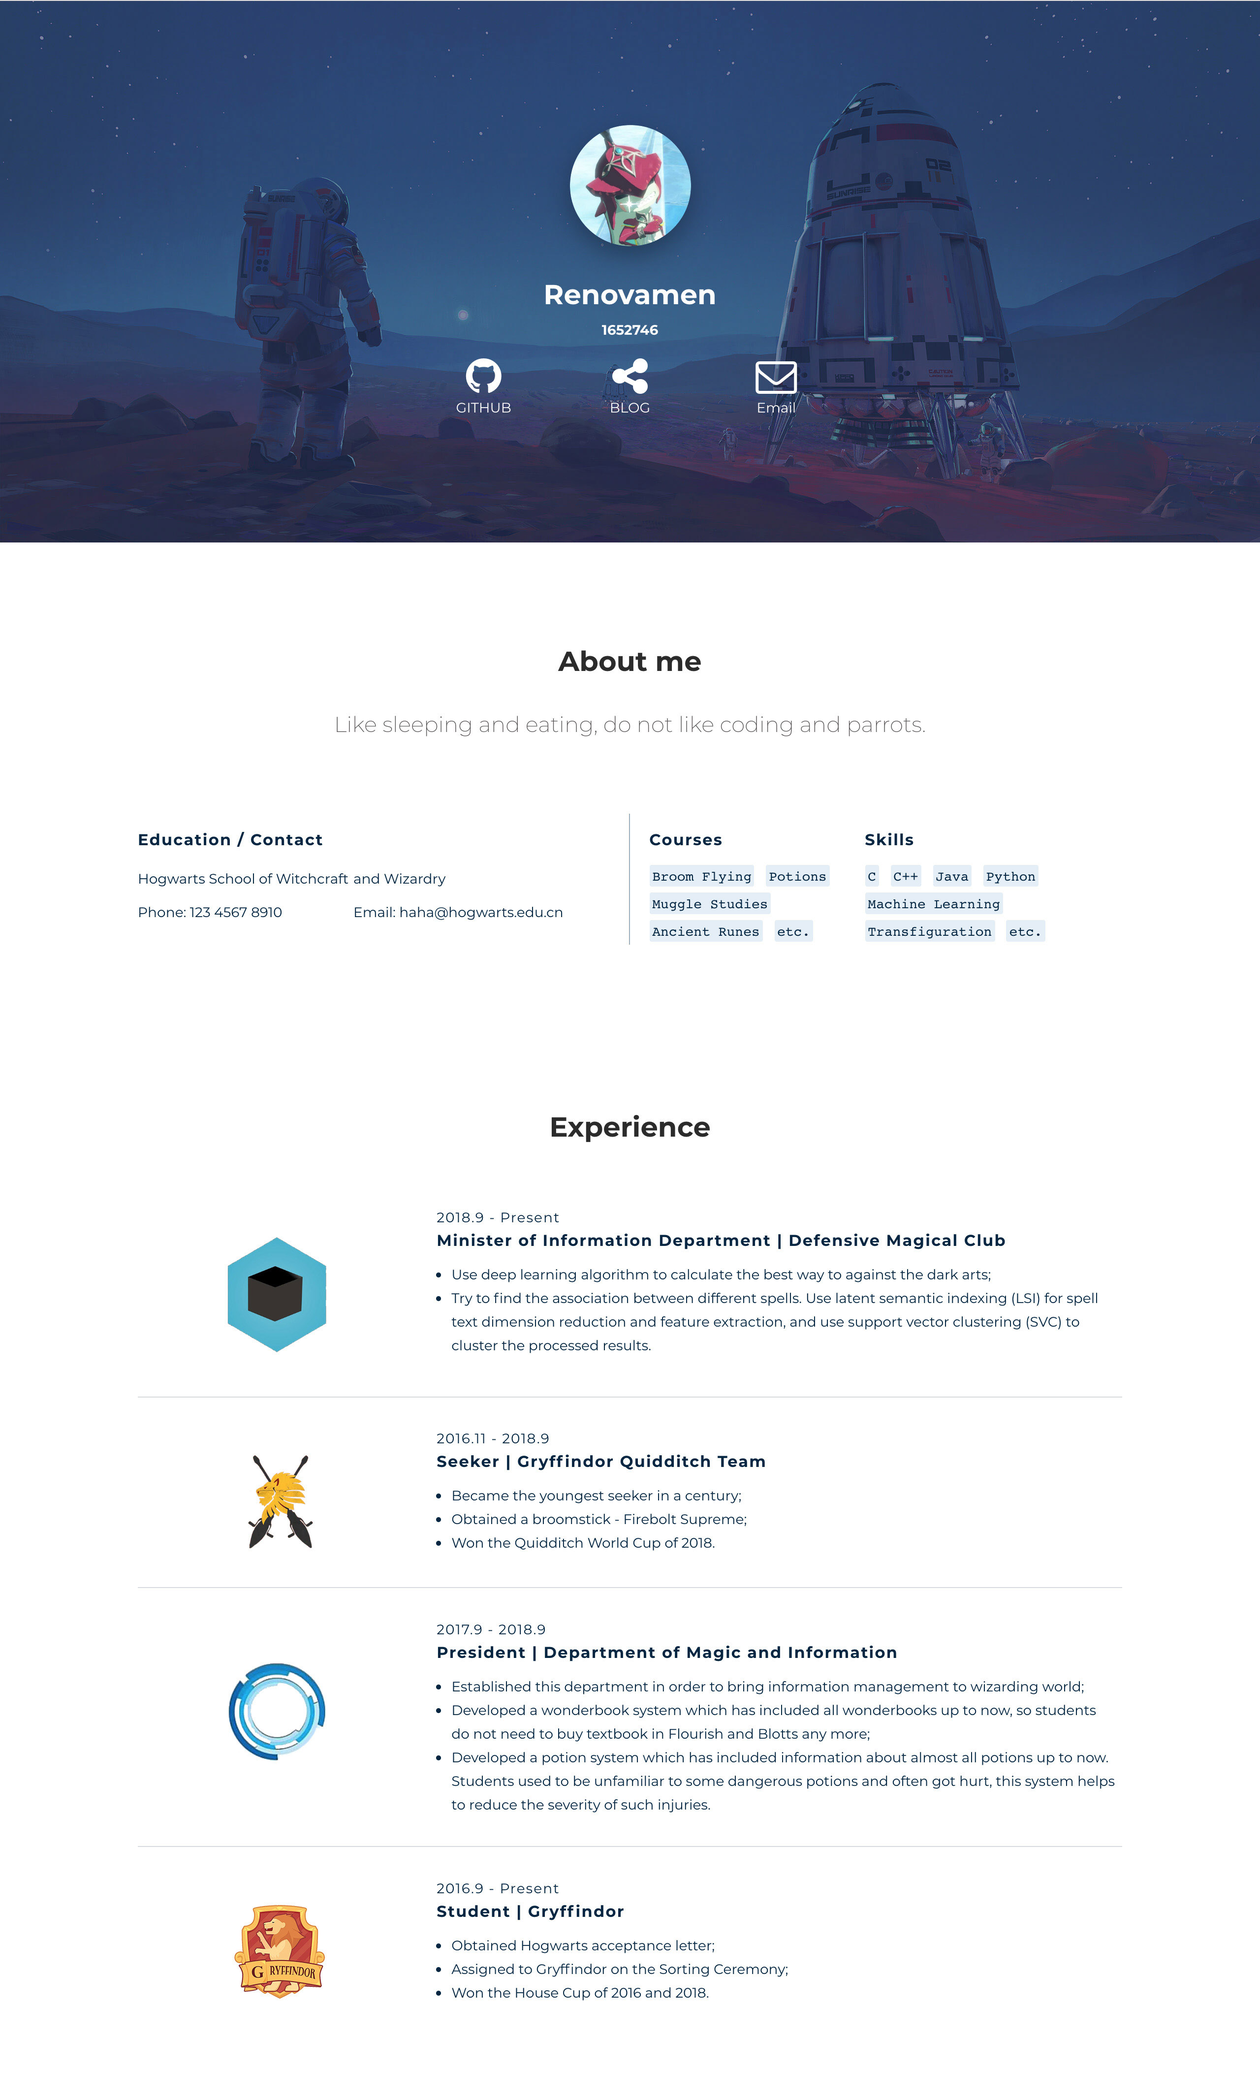
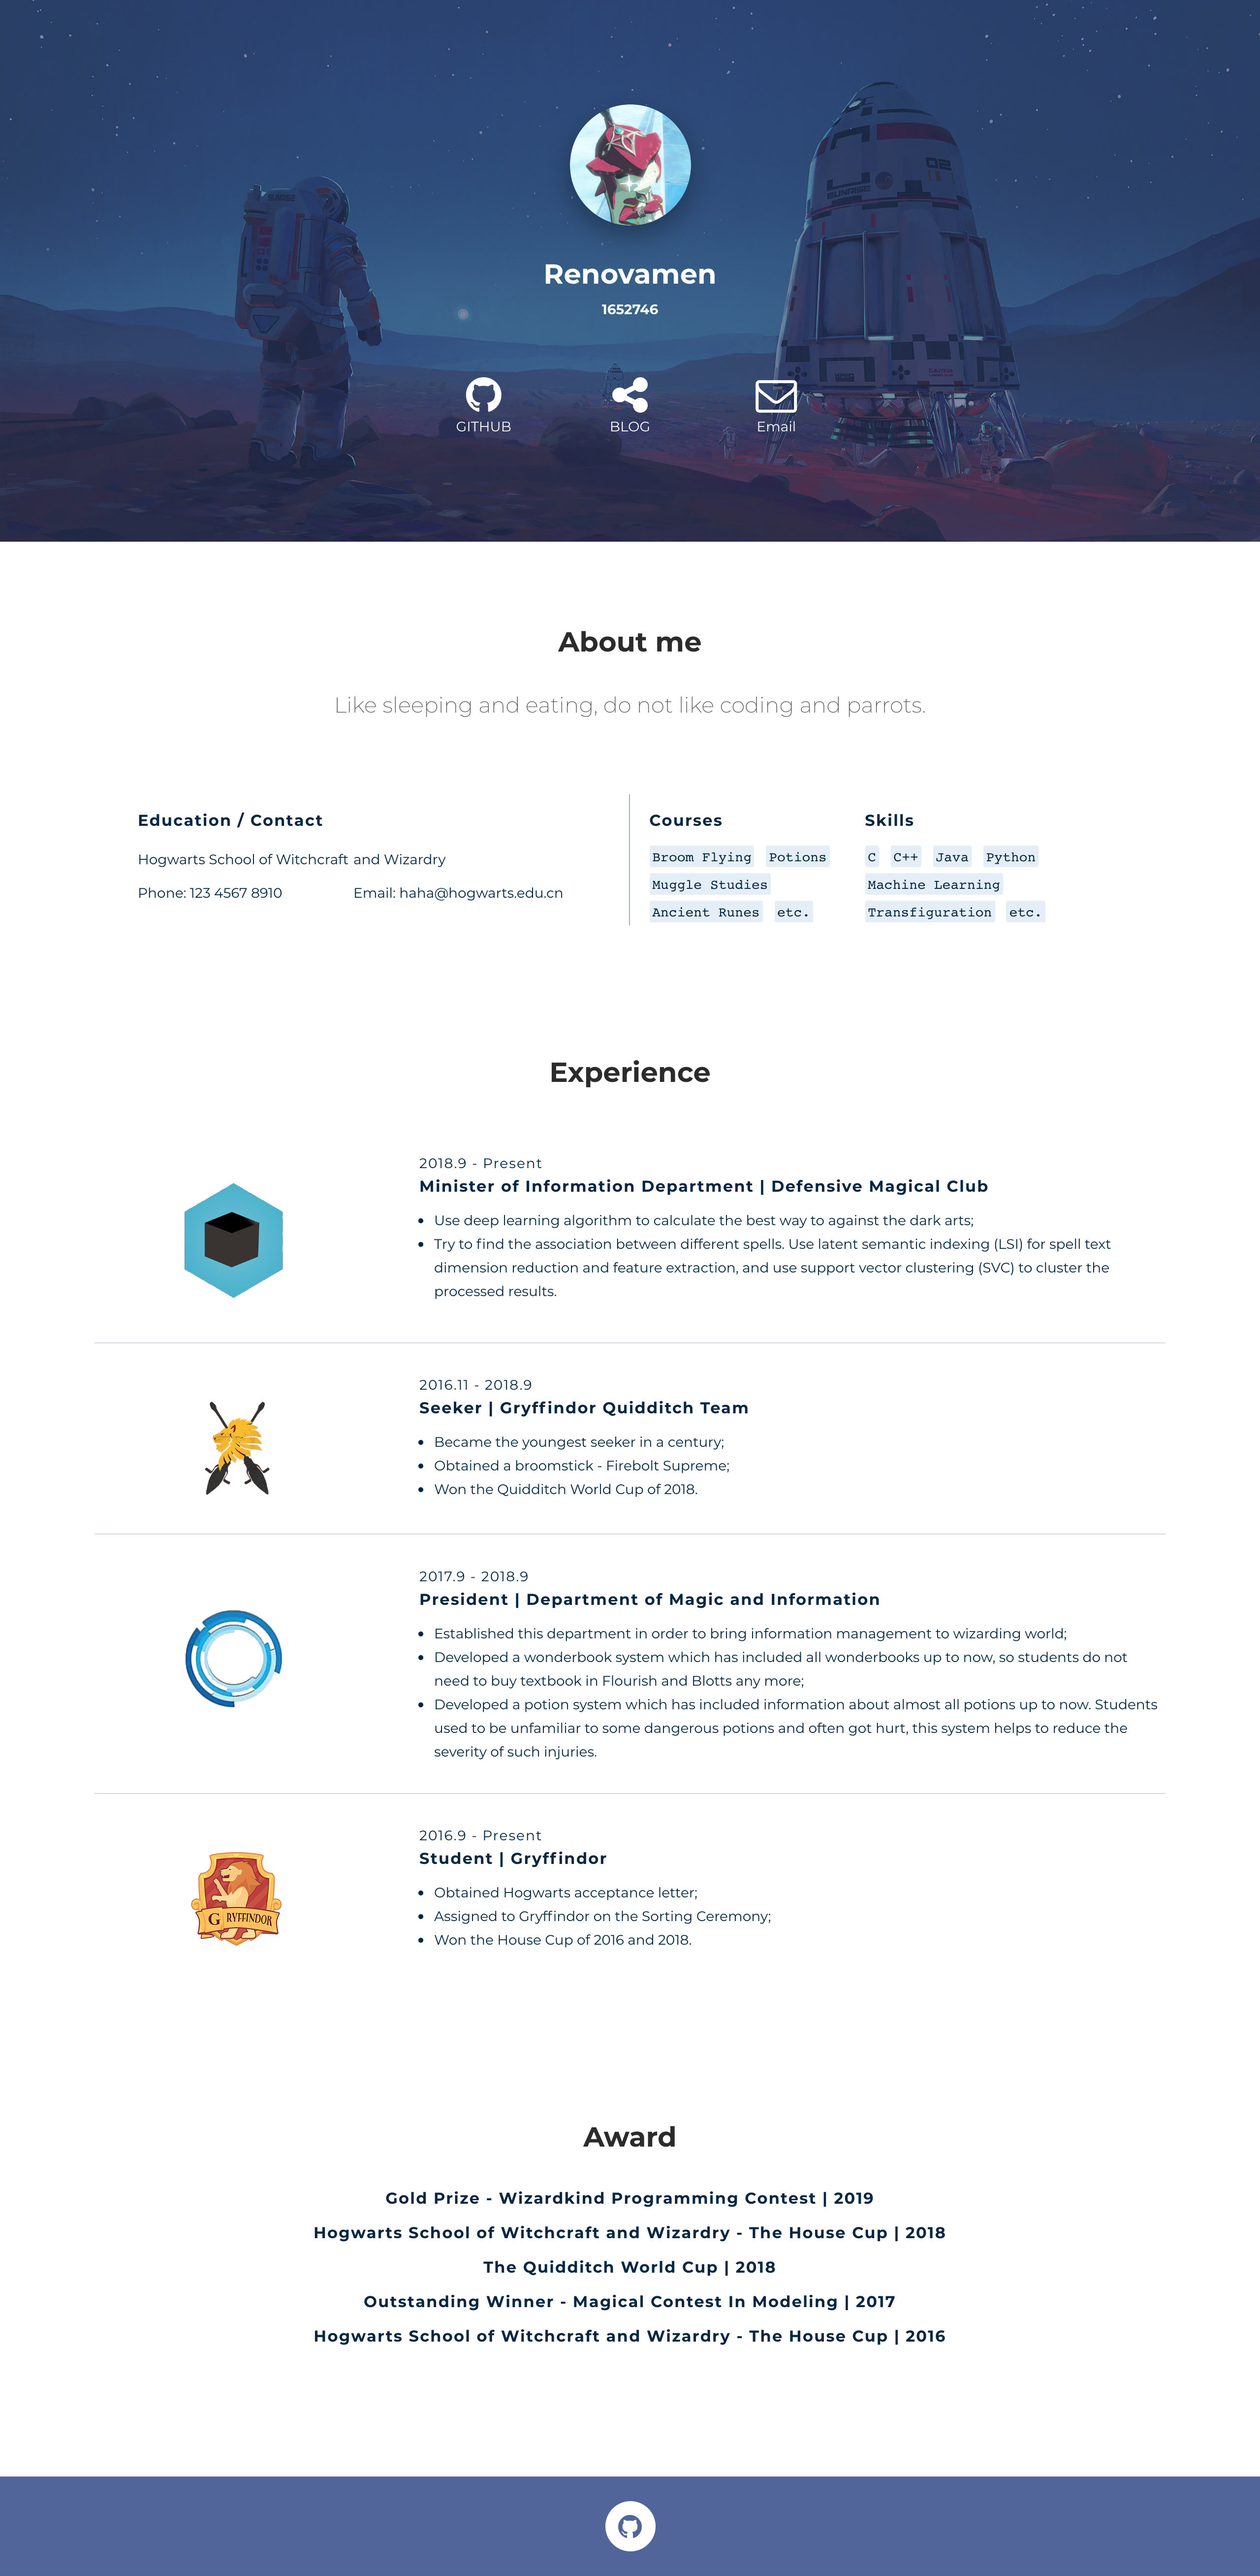
[Add] Add footer and social links

diff --git a/css/style.css b/css/style.css
@@ -3,6 +3,8 @@
     margin: 0;
 }
 
+/*  ------------------- Fonts style ------------------- */
+
 h1, h2, h3, h4, h5, h6 {
     font-weight: 400;
 }
@@ -69,7 +71,7 @@ p {
     margin-top: -25px;
 }
 
-.description, .card-description, .footer-big p {
+.description {
     color: rgb(87, 84, 84);
     font-weight: 300;
 }
@@ -77,6 +79,8 @@ p {
 .category {
     font-weight: 700;
 }
+
+/*  --------------------------------------------------------- */
 
 body {
     color: #2c2c2c;
@@ -86,18 +90,15 @@ body {
     -webkit-font-smoothing: antialiased;
 }
 
+/*  ------------------- Header Page style ------------------- */
+
 img {
     max-width: 100%;
     border-radius: 1px;
 }
 
-
 .profile-page .page-header {
     min-height: 550px;
-}
-
-.profile-page .profile-container {
-    color: #FFFFFF;
 }
 
 .profile-page .photo-container {
@@ -114,18 +115,13 @@ img {
     margin-top: 30px;
 }
 
-.profile-page .description,
-.profile-page .category {
+.profile-page .description, .profile-page .category {
     text-align: center;
 }
 
 .profile-page h5.description {
     max-width: 700px;
     margin: 20px auto 75px;
-}
-
-.profile-page .nav-align-center {
-    margin-top: 30px;
 }
 
 .profile-page .content {
@@ -138,29 +134,15 @@ img {
     max-width: 150px;
     width: 145px;
     text-align: center;
-    margin: 15px 0 0px;
+    margin: 55px 0 0px;
 }
-
-.profile-page .content .social-description h2 {
-    margin-bottom: 15px;
-}
-
-
-.section {
-    padding: 70px 0;
-    position: relative;
-    background: #FFFFFF;
-}
-
 
 .page-header {
-    height: 150vh;
-    max-height: 1050px;
-    padding: 0;
-    color: #FFFFFF;
+    height: 60vh;
+    max-height: 440px;
     position: relative;
-    background-position: center center;
     background-size: cover;
+    background:rgba(40, 57, 101, .6);
 }
 
 .page-header .page-header-image {
@@ -186,69 +168,58 @@ img {
     max-width: 880px;
 }
 
-.page-header.page-header-small {
-    height: 60vh;
-    max-height: 440px;
+.page-header a {
+    color: #ffffff;
+    width: 51px;
+    height: 51px;
 }
 
-.page-header:after, .page-header:before {
-    position: absolute;
-    z-index: 0;
-    width: 100%;
-    height: 100%;
-    display: block;
-    left: 0;
-    top: 0;
-    content: "";
+/*  ------------------- Personal Information style ------------------- */
+
+.section {
+    padding: 50px 0;
+    position: relative;
+    background: #FFFFFF;
 }
 
-.page-header:before {
-    background:rgba(40, 57, 101, .6);
-}
-
-.information-all{
+.personal-information{
     margin: 0 auto;
     width: 1000px;
 }
 
-.col-3, .col-6, .col-9 {
+.col-6, .col-9 {
     display: inline-block;
     vertical-align: top;
     margin: 0;
     padding: 0;
 }
-.col-3 {
-    width: 32%;
-}
-.col-3-abs {
-    width: 290px;
-    display: inline-block;
-}
+
 .col-6-asb {
     width: 49.5%;
     display: inline-block;
     vertical-align: top;
 }
+
 .col-6 {
     width: 43.5%;
 }
+
 .col-9 {
     width: 70%;
 }
 
-
-.peasonal, item {
-    display: inline-block;
-}
-.ensprience .item, .skill .item {
+.courses .item, .skill .item {
     padding-left: 20px;
 }
+
 .item ul {
     padding-left: 15px;
 }
+
 .lang {
     margin-top: -5px;
 }
+
 .item .title {
     margin: 15px 0; 
     font-weight: bold;
@@ -256,11 +227,13 @@ img {
     color: #022643;
     letter-spacing: 1.14px;
 }
+
 .item p, .item li, .item lable {
     font-size: 14px;
     color: #022643;
     line-height: 24px;
 }
+
 .item lable {
     font-family: Courier;
     background: #E4EEF6;
@@ -272,16 +245,23 @@ img {
     vertical-align: top;
 }
 
-.ensprience .item, .skill .item {
+.courses .item, .skill .item {
     padding-left: 20px;
 }
 
-.ensprience {
+.courses {
     border-left: 1px solid #9DAFBE;
 }
 
-.w-experience-detail .pmessage:hover .hide {
-    top: 30px;
+.phone, .email{
+    margin-top: 10px; 
+}
+
+/*  ------------------- Experience style ------------------- */
+
+.work-experience {
+    width: 85%;
+    margin: 0 auto;
 }
 
 .w-experience-content {
@@ -318,15 +298,60 @@ img {
     letter-spacing: 1.14px;
     margin-bottom: 10px; 
 }
-.work-content p.key-word {
-    margin-top: 10px; 
-}
 
-.work-experience {
-    width: 1000px;
+/*  ------------------- Award style ------------------- */
+
+.award {
+    width: 60%;
     margin: 0 auto;
+    text-align: center
 }
 
-.phone, .email{
-    margin-top: 10px; 
+.award p.award-title {
+    font-weight: bold;
+    font-size: 16px;
+    color: #022643;
+    letter-spacing: 1.14px;
+    margin-bottom: 10px; 
+}
+
+
+/*  ----------------#3b323c--- Footer style ------------------- */
+
+.footer {
+    margin-top: 70px;
+    background: rgb(79, 100, 155);
+}
+
+.footer .container {
+    padding: 25px 0 25px;
+    text-align: center;
+}
+
+.footer li {
+    display: inline-block;
+    background: #ffffff;
+    color: rgb(79, 100, 155);
+    width: 51px;
+    height: 51px ;
+    -webkit-border-radius: 50%;
+    border-radius: 50%;
+}
+
+.footer li:hover {
+    background: rgb(79, 100, 155);
+}
+
+.footer li:hover a {
+    color: #fff;
+}
+
+.footer li a {
+    color: rgb(79, 100, 155);
+    width: 51px;
+    height: 51px;
+}
+
+.footer li a i {
+    line-height: 52px;
 }

diff --git a/index.html b/index.html
@@ -6,7 +6,7 @@
     <link rel="icon" type="image/png" href="img/avatar.png">
     <title>Resum of Zou Xiaohan</title>
     <!-- Fonts and icons -->
-    <link href="https://fonts.googleapis.com/css?family=Montserrat:400,700,200" rel="stylesheet"/>
+    <link rel="stylesheet" href="https://fonts.googleapis.com/css?family=Montserrat:400,700,200"/>
     <link rel="stylesheet" href="https://maxcdn.bootstrapcdn.com/font-awesome/latest/css/font-awesome.min.css"/>
     <!-- CSS -->
     <link href="css/style.css" rel="stylesheet"/>
@@ -14,8 +14,7 @@
 </head>
 
 <body class="profile-page">
-
-    <div class="page-header page-header-small" filter-color="orange">
+    <div class="page-header" filter-color="orange">
         <div class="page-header-image" data-parallax="true" style="background-image: url('img/bg.jpg');"></div>
         <div class="container">
             <div class="content-center">
@@ -26,15 +25,15 @@
                 <p class="category">1652746</p>
                 <div class="content">
                     <div class="social-description">
-                        <i class="fa fa-github fa-3x"></i>
+                        <a href="https://github.com/Renovamen"><i class="fa fa-github fa-3x"></i></a>
                         <p>GITHUB</p>
                     </div>
                     <div class="social-description">
-                        <i class="fa fa-share-alt fa-3x"></i>
+                        <a href="http://allspark.ink"><i class="fa fa-share-alt fa-3x"></i></a>
                         <p>BLOG</p>
                     </div>
                     <div class="social-description">
-                        <i class="fa fa-envelope-o fa-3x"></i>
+                        <a href = mailto:renovamenzxh@gmail.com><i class="fa fa-envelope-o fa-3x"></i></a>
                         <p>Email</p>
                     </div>
                 </div>
@@ -46,7 +45,7 @@
     <div class = "section">
         <h3 class="about-title">About me</h3>
         <h5 class="description">Like sleeping and eating, do not like coding and parrots.</h5>
-        <div class="information-all">
+        <div class="personal-information">
             <div class="col-6-asb">
                 <div class="item">
                     <p class="title name">
@@ -63,7 +62,7 @@
                 </div>
             </div>
             <div class="col-6-asb">
-                <div class="col-6 ensprience">
+                <div class="col-6 courses">
                     <div class="item">
                         <p class="title">
                             Courses
@@ -155,6 +154,23 @@
             </div>
         </div>
     </div>
+
+    <div class = "section award">
+        <h3 class="about-title">Award</h3>
+        <p class="award-title">Gold Prize - Wizardkind Programming Contest | 2019</p>
+        <p class="award-title">Hogwarts School of Witchcraft and Wizardry - The House Cup | 2018</p>
+        <p class="award-title">The Quidditch World Cup | 2018</p>
+        <p class="award-title">Outstanding Winner - Magical Contest In Modeling | 2017</p>
+        <p class="award-title">Hogwarts School of Witchcraft and Wizardry - The House Cup | 2016</p>
+    </div>
+
+    <div class="footer">
+        <div class="container">
+            <li>
+                <a href="https://github.com/Renovamen/Magic-Resume"><i class="fa fa-github fa-2x"></i></a>
+            </li>
+        </div>
+    </section>
 </body>
 
 </html>
